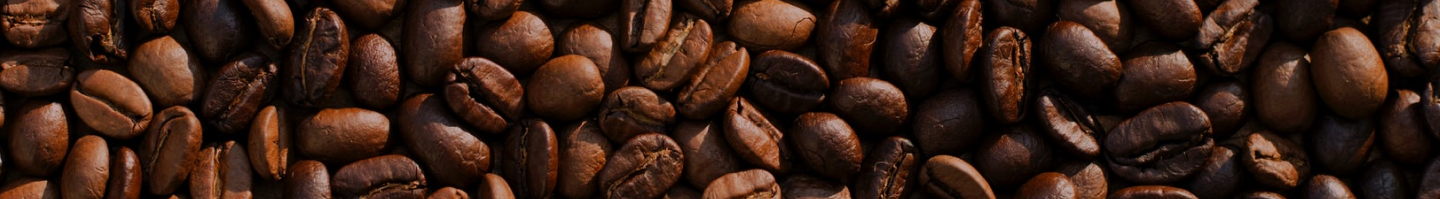
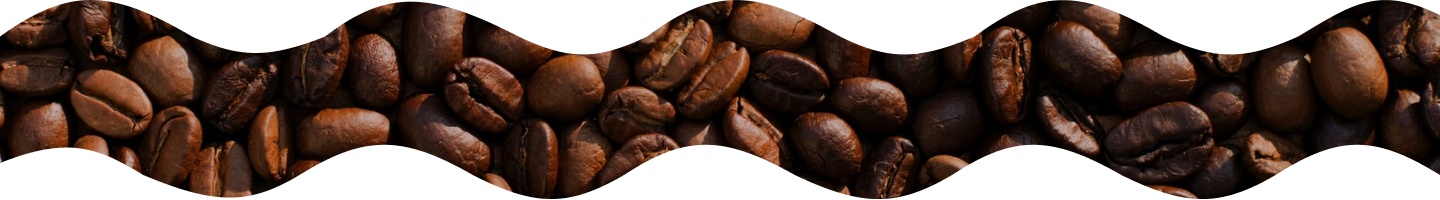
att

diff --git a/index.html b/index.html
@@ -58,8 +58,8 @@
         </div>
 
 
-        <div id="sobreNos" class = 'flex-row border'>
-            <div id="containerSobre">
+        <div id="sobreNos">
+            <div id="containerSobre" >
                 <div class="fundoMarrom">
                     <h1 id="tituloSobre">
                         SOBRE NÓS
@@ -79,13 +79,67 @@
                 <div id="botaoFale">
                     <p class="botao">FALE CONOSCO<img src = 'res/Union.png'></p>
                 </div>
-            </div>
+            </div>   
                 <div>
                     <img id="imageSobre" src="res/Mask group.jpg">
                 </div>
-            </div>
+            
+        </div>
 
         <div id="imgOnda"><img src="res/onda.png"></div>
 
+
+        <section id="carrosselPrinc" >
+            <div id="tituloCarrossel" class = 'flex-row'>
+                <p id="cafet" class = 'flex-row'>CAFETERIA<h1></h1></p>
+            </div>
+            <div class="carrosel">
+                <div class="carroselImg">
+                  <div class="item">
+                        <img src="imgs/carousel1.png">
+                        <div style="width: 220px;">
+                            <p class="tituloItemCarousel">Brigadeiro de capuccino</p>
+                            <p class="itemCarousel">O brigadeiro de cappuccino é uma das guloseimas que enfeitam o balcão da doceria...</p>
+                        </div>
+                  </div>
+              
+                  <div class="item">
+                        <img src="imgs/carousel2.png">
+                        <div style="width: 220px;">
+                            <p class="tituloItemCarousel">Pão de Mel</p>
+                            <p class="itemCarousel">O pão de mel é um dos doces mais tradicionais que temos, ele é recheado com doce de leite...</p>
+                        </div>
+                  </div>
+              
+                  <div class="item">
+                        <img src="imgs/carousel3.png">
+                        <div style="width: 220px;">
+                            <p class="tituloItemCarousel">Bolo de chocolate</p>
+                            <p class="itemCarousel">O bolo de chocolate é uma das sobremesas mais pedidas da Cafeteira, ele possui um recheio com...</p>
+                        </div>
+                  </div>
+              
+                  <div class="item">
+                    <img src="imgs/carousel4.png">
+                    <div style="width: 220px;">
+                        <p class="tituloItemCarousel">Sorvete de Café</p>
+                        <p class="itemCarousel">O sorvete em versão de café pode ser aproveitado sozinho ou com um pedacinho de bolo no fim...</p>
+                    </div>
+                  </div>
+              
+                  <div class="item">
+                    <img src="imgs/carousel4.png">
+                    <div style="width: 220px;">
+                        <p class="tituloItemCarousel">Sorvete de Café</p>
+                        <p class="itemCarousel">O sorvete em versão de café pode ser aproveitado sozinho ou com um pedacinho de bolo no fim...</p>
+                    </div>
+                </div>
+             
+                </div>
+            </div>
+        </section>
+
+
 	</body>
 </html>
+

diff --git a/index.css b/index.css
@@ -16,16 +16,22 @@ h1{
 }
 
 hr {
-    border: .1vw solid #B2784A;
-    width: 3.5vw;
-    border-radius: 1vw;
-    margin-top: .1vw;
+    border: 1.5px solid #B2784A;
+    width: 50px;
+    border-radius: 9px;
+    margin-top: .1px;
     margin-bottom: 0px;
 }
 
 .flex-row{
     display: flex;
     align-items: center;
+    justify-content: space-evenly;
+}
+
+.block-row{
+    display: block;
+    align-items: start;
     justify-content: space-evenly;
 }
 
@@ -39,7 +45,7 @@ hr {
 }
 
 nav{
-    height: 100;
+    height: 150px;
     width: 100%;
     top: 0px;
     left: 0px;
@@ -154,7 +160,7 @@ nav{
     font-weight: bold;
     width: 1300px;
     height: 228px;
-    margin-top: 80px;
+    margin-top: 130px;
 }
 
 #text2{
@@ -199,8 +205,9 @@ nav{
 }
 
 #image{
+    margin-top: 130px;
     width: 100%;
-    height: 700px;
+    height: 750px;
     background-size: cover;
     background-image: url(res/Imagem\ Cafes.png);
     background-position: center;
@@ -215,9 +222,6 @@ nav{
     height: 42px;
 }
 
-#containerSobre{
-    margin-top: -80px;
-}
 
 #sobreNos{
     display: flex;
@@ -234,7 +238,6 @@ nav{
     font-size: 20px;
     font-family: "Open Sans", sans-serif;
     margin-bottom: 50px;
-    
 }
 
 #tituloSobre{
@@ -250,18 +253,85 @@ nav{
 
 #containerSobre{
     margin-top: -40px;
+    
 }
 
 #imageSobre{
     width: 352px;
     height: 340px;
+    
 }
 
 #imgOnda img{
-    position: absolute; 
+    margin-top: 0px;
     width: 100%; 
-    height: 199px;  
-    top: 1200px; 
+    height: 270px;  
+    top: 100px; 
     background-size: cover;
     background-position: center;
+}
+
+#cafet{
+    color: white; 
+    font-size: 55px;
+    margin: 0;
+    position: relative;
+    margin-top: 200px;
+    font-family: "Cormorant Garamond", serif;
+  
+}
+#cafet::after{
+    content: '';
+    position: absolute;
+    bottom: -5px;
+    left: 50%;
+    width: 60%;
+    height: 3px;
+    background-color: #B2784A;
+    border-radius: 3px;
+    transform: translateX(-50%);
+}
+
+.tituloItemCarousel{
+    font-size: 16px;
+    font-family: "Open Sans", sans-serif;
+    font-weight: bold;
+
+}
+
+.itemCarousel{
+    font-size: 14px;
+    font-family: "Open Sans", sans-serif;
+
+}
+
+.carrosel {
+    overflow: hidden;
+    width: 100%;
+    height: 500px; 
+  }
+  
+.carroselImg {
+    display: flex;
+    width: 140%; 
+    margin-left: 110px;
+}
+
+.carroselImg img {
+    width: 220px;
+    height: 220px;
+    border-radius: 10px;
+    margin-top: 10px;
+}
+
+#carrosselPrinc{
+    margin-top: -140px;
+    height: 745px; 
+    background-color: #80451F;
+}
+
+#tituloCarrossel{
+    display: flex; 
+    justify-content: center;
+    margin-bottom: 30px;
 }
